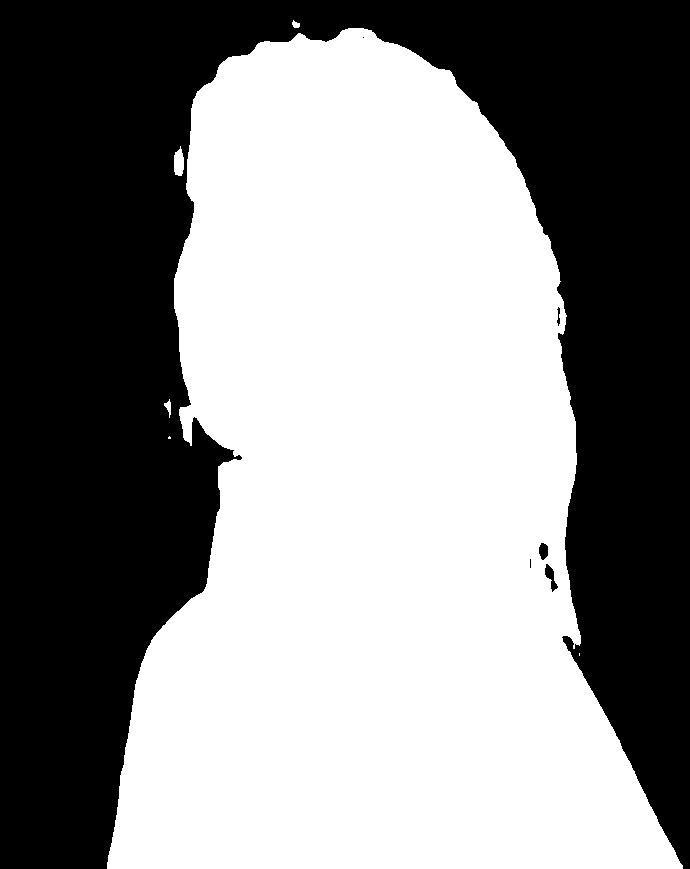
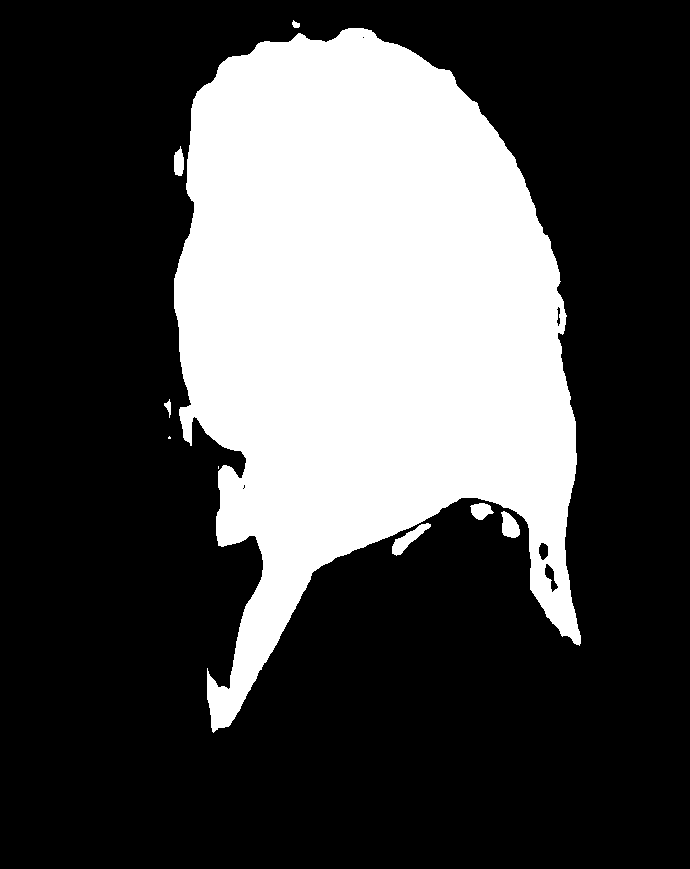
[add] add sd change masked

Changed region(s): [[0.1522, 0.5593, 1.0, 1.0], [0.3348, 0.5282, 0.3652, 0.5593]]

diff --git a/gradio_web/modules/utils/imaga_paras_gen.py b/gradio_web/modules/utils/imaga_paras_gen.py
@@ -140,15 +140,20 @@ def form_post_img2img_paras(init_img_str:str ,query: str ,loras:list[str]=[], **
         "cfg_scale": kwargv.get("cfg_scale", template_paras.get("cfg_scale", None)),
         "alwayson_scripts": alwayson_scripts,
 
-        "inpainting_fill": 0,
-        "inpaint_full_res": False,
-        "inpaint_full_res_padding": 32,
-        "inpainting_mask_invert": 1,
+        "inpainting_fill": kwargv.get("inpainting_fill", template_paras.get("inpainting_fill", None)),
+        "inpaint_full_res": kwargv.get("inpaint_full_res", template_paras.get("inpaint_full_res", None)),
+        "inpaint_full_res_padding": kwargv.get("inpaint_full_res_padding", template_paras.get("inpaint_full_res_padding", None)),
+        "inpainting_mask_invert": kwargv.get("inpainting_mask_invert", template_paras.get("inpainting_mask_invert", None)),
         "mask_blur": 4,
         "mask": kwargv.get("black_img_str", template_paras.get("black_image",None)),
         "mask_image": kwargv.get("mask_img_str", template_paras.get("mask_image",None)),
         "source": kwargv.get("source", template_paras.get("source",None))
     }
+
+    template_name = kwargv.get("template", None)
+    if template_name != "inpaintSD":
+        paras["mask"] = None 
+        
 
     for key in IMG2IMG_DEFAULT_PARAS.keys():
         paras[key] = paras[key] if paras[key] != None else default_paras[key]

diff --git a/gradio_web/test_utils.py b/gradio_web/test_utils.py
@@ -14,7 +14,7 @@ class TestSD(unittest.TestCase):
         self.assertEqual(0.25, paras["denoising_strength"], f"form_post_img2img_paras failed with template: beauty")
         self.assertEqual("DPM++ 2M Karras", paras["sampler_index"], f"form_post_img2img_paras failed with template: beauty")
         self.assertEqual(paras["alwayson_scripts"]["controlnet"]["args"][0]["input_image"], init_img_str, "Init_img_str not applied")
-        paras, e = form_post_img2img_paras(init_img_str,'test',[],template="default", prompt = "test")
+        paras, e = form_post_img2img_paras(init_img_str,'test',[],template="inpaintSD", prompt = "test")
         self.assertEqual(None, e, e)
         self.assertEqual(0.3, paras["denoising_strength"], f"form_post_img2img_paras failed with template: beauty")
         self.assertEqual("testtest", paras["prompt"], f"form_post_img2img_paras failed with template: beauty")

diff --git a/gradio_web/controllers/mutimodal_controllers.py b/gradio_web/controllers/mutimodal_controllers.py
@@ -33,7 +33,7 @@ def exec_command(command_package, base_image: Image.Image, image_editor: dict, m
     elif command_package['command'] == 'change_masked':
         print(image_editor)
         mask_image, image_editor = submit_mask_process(image_editor)
-        edited_image = change_pic_process(edited_image, img_input if img_input is not None and img_input != "" else command_package['paras'][1], lora_dropdown, "default", mask_image, image_editor)
+        edited_image = change_pic_process(edited_image, img_input if img_input is not None and img_input != "" else command_package['paras'][1], lora_dropdown, "inpaintSD", mask_image, image_editor)
         image_editor["composite"] = image_editor["background"]
         gr.Info(f"Finish {command_package['command']}")
         

diff --git a/gradio_web/controllers/pics_controller.py b/gradio_web/controllers/pics_controller.py
@@ -68,8 +68,13 @@ def change_pic_process(init_img: Image, query: str, loras:list[str] = [], templa
     # Use api post_img2img
     pic_string, e = post_img2img(paras, source = paras["source"])
     if e != None:
-        gr.Warning(e)
-        return init_img
+        if template == "inpaintSD":
+            gr.Warning(e+" \nFallback to DALLE")
+            paras["source"] = "DALLE"
+            pic_string, e = post_img2img(paras, source = paras["source"])
+        if e != None:
+            gr.Error(e)
+            return init_img
     
     # ------------------------------------------------------
     # Get image from str and return

diff --git a/gradio_web/modules/api/pics_api.py b/gradio_web/modules/api/pics_api.py
@@ -30,7 +30,7 @@ def post_img2img(paras, source):
     # ------------------------------------------------------
     # log paras
     for key in paras.keys():
-        if key not in ["init_images","mask","mask_image"]:
+        if key not in ["init_images","mask","mask_image","alwayson_scripts"]:
             print(f"{key}: {paras[key]}")
     # ------------------------------------------------------
     # Begin check route

diff --git a/middleware/models/utils.go b/middleware/models/utils.go
@@ -39,7 +39,7 @@ func convertRGBToRGBA(inputPath, outputPath string, mask bool) error {
 			if mask && uint8(r) == 0 && uint8(g) == 0 && uint8(b) == 0 {
 				rgbaImg.Set(x, y, color.RGBA{0, 0, 0, 0})
 			} else {
-				rgbaImg.Set(x, y, color.RGBA{uint8(r), uint8(g), uint8(b), 253})
+				rgbaImg.Set(x, y, color.RGBA{uint8(r), uint8(g), uint8(b), 255})
 			}
 		}
 	}
